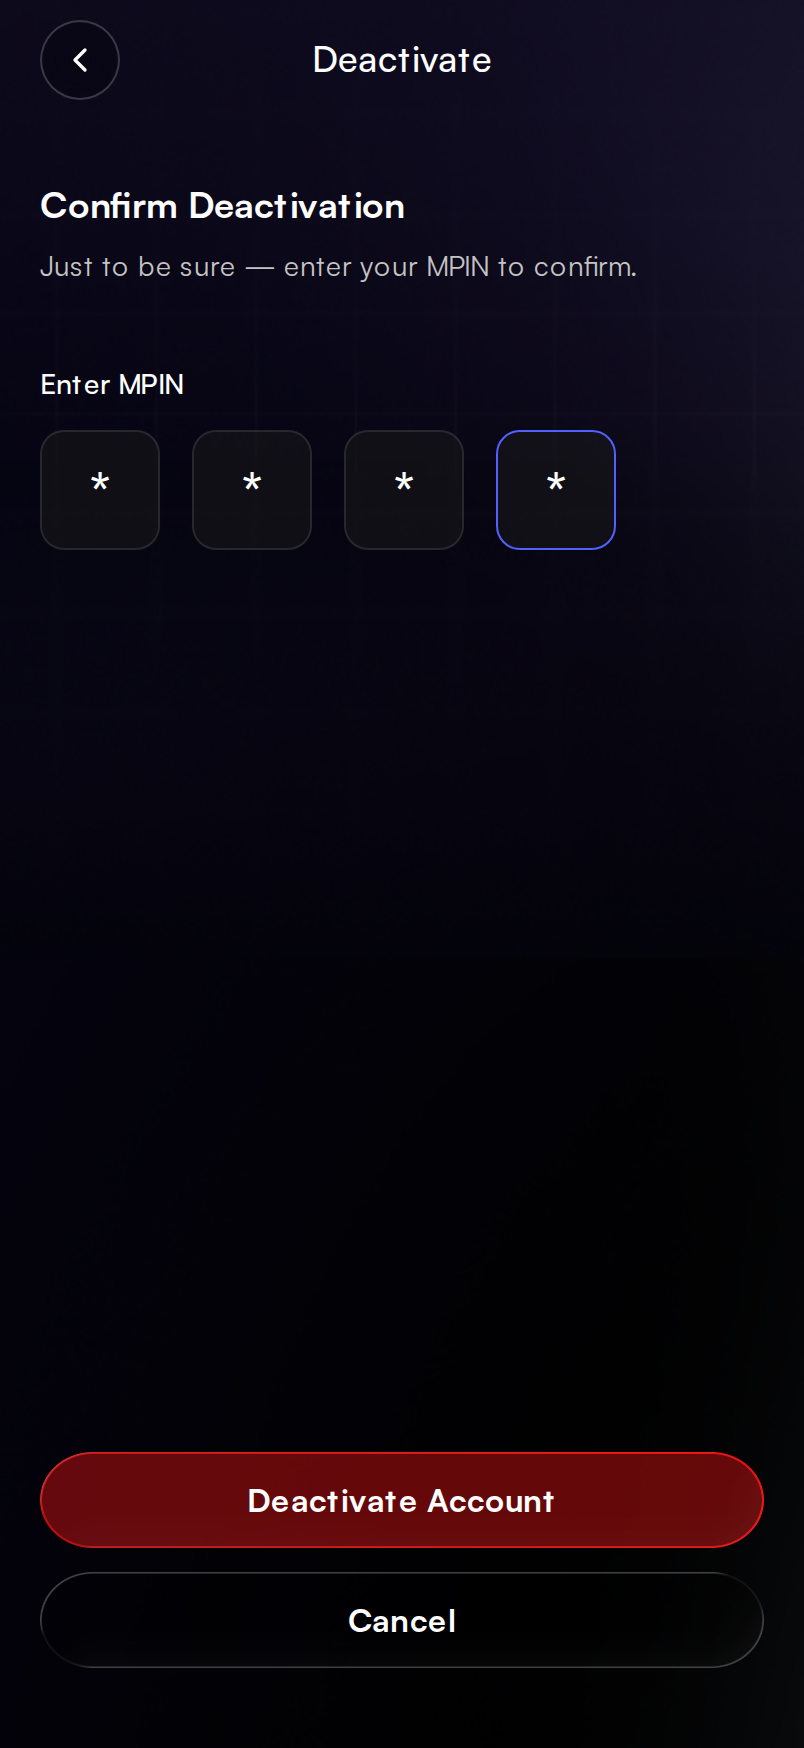
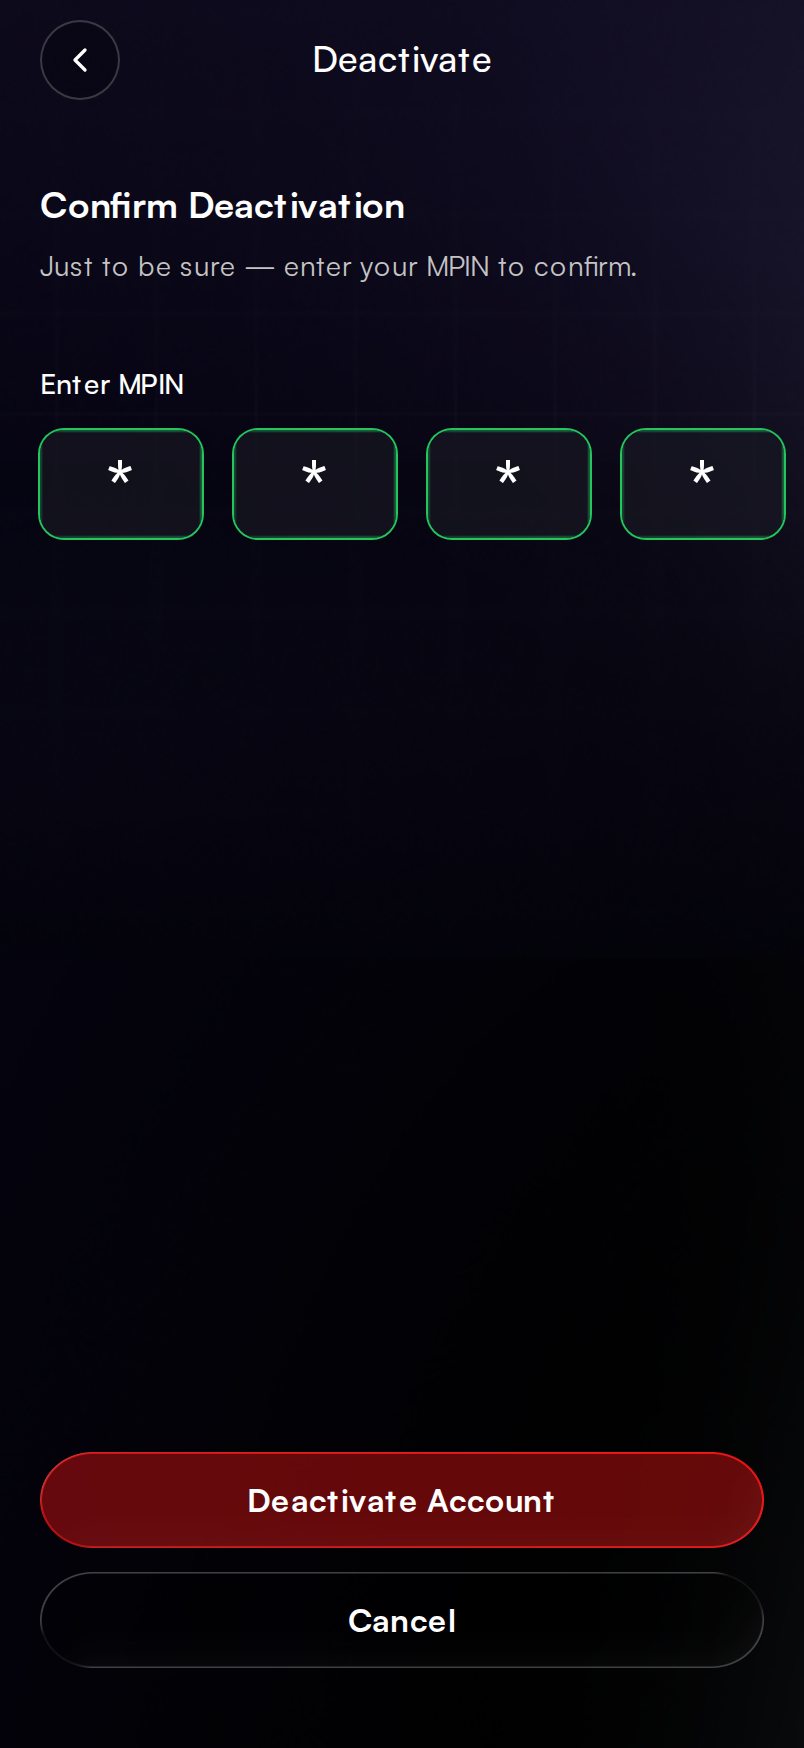
Update Confirm Deactivation input styles to match MpinSheet

diff --git a/src/pages/ConfirmDeactivation.tsx b/src/pages/ConfirmDeactivation.tsx
@@ -6,14 +6,23 @@ import { InputOTP, InputOTPGroup, InputOTPSlot } from "@/components/ui/input-otp
 import bgDarkMode from "@/assets/bg-dark-mode.png";
 import buttonRemoveCard from "@/assets/button-remove-card.png";
 import buttonCancel from "@/assets/button-cancel-wide.png";
+import mpinInputSuccess from "@/assets/mpin-input-success.png";
+import mpinInputError from "@/assets/mpin-input-error.png";
 
-// Custom Slot to handle masking and styling
-const MaskedSlot = ({ char, hasFakeCaret, isActive, isError }: { char: string | null; hasFakeCaret: boolean; isActive: boolean; isError: boolean }) => {
+// Custom Slot to handle masking and styling - matching MpinSheet
+const MaskedSlot = ({ char, hasFakeCaret, isActive, isError, isValid }: { char: string | null; hasFakeCaret: boolean; isActive: boolean; isError: boolean, isValid: boolean }) => {
   return (
     <div
-      className={`relative w-[60px] h-[60px] flex items-center justify-center text-[24px] font-bold text-white transition-all rounded-[12px] bg-[#191919]/50 border ${
-        isError ? "border-red-500" : isActive ? "border-[#5260FE]" : "border-white/10"
+      className={`relative flex items-center justify-center h-[54px] w-[81px] rounded-[12px] border-none text-[32px] font-bold text-white transition-all bg-cover bg-center ring-1 ${
+        isError ? 'ring-red-500' :
+        isValid ? 'ring-green-500' :
+        isActive ? 'ring-[#5260FE]' : 'ring-white/10'
       }`}
+      style={{
+          backgroundColor: 'rgba(26, 26, 46, 0.5)',
+          backgroundImage: isError ? `url(${mpinInputError})` :
+                           isValid ? `url(${mpinInputSuccess})` : undefined
+      }}
     >
       {char ? "*" : ""}
       {hasFakeCaret && (
@@ -111,6 +120,7 @@ const ConfirmDeactivation = () => {
                                 hasFakeCaret={slot.hasFakeCaret}
                                 isActive={slot.isActive}
                                 isError={isError}
+                                isValid={isValid}
                             />
                         ))}
                     </div>
